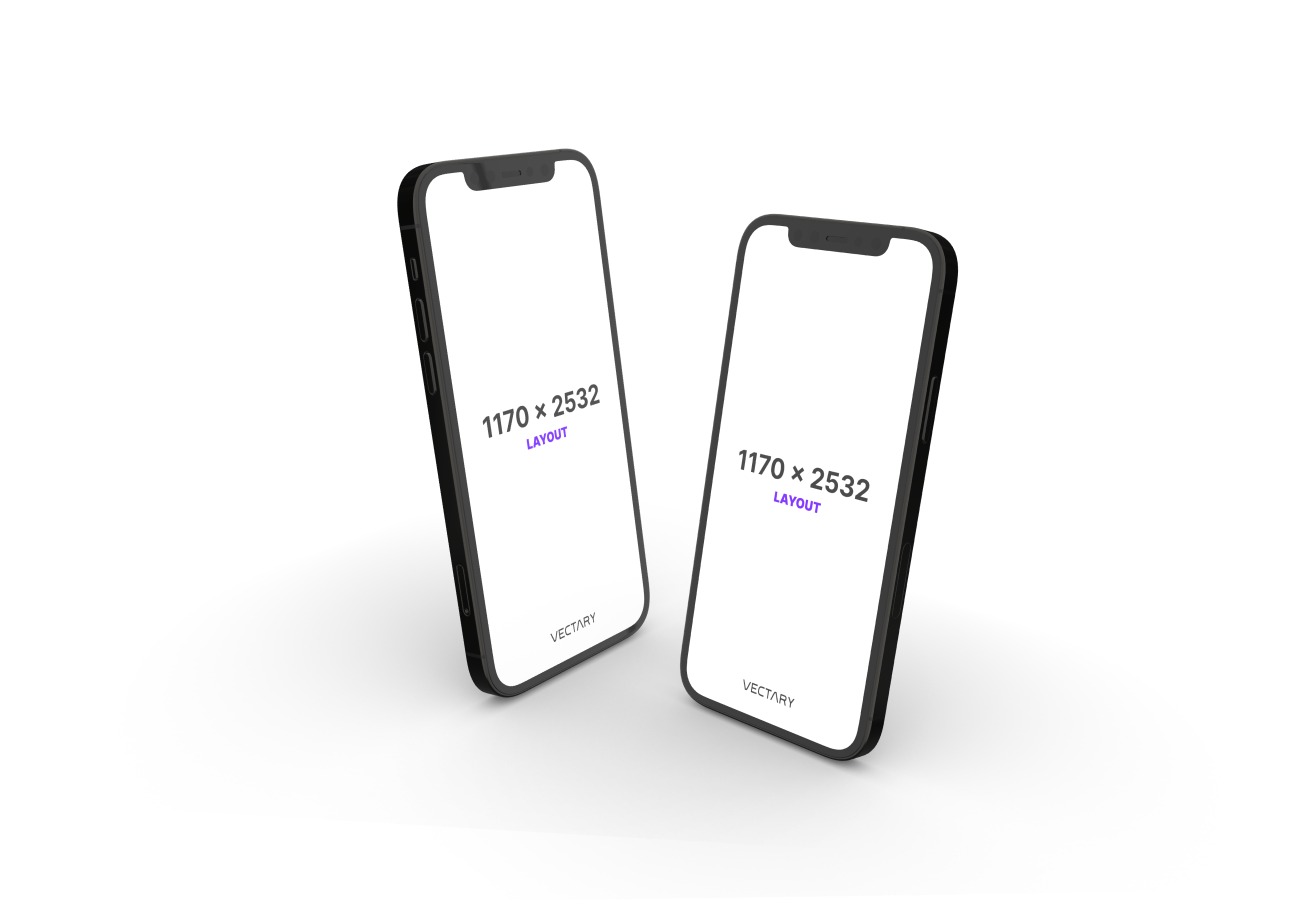
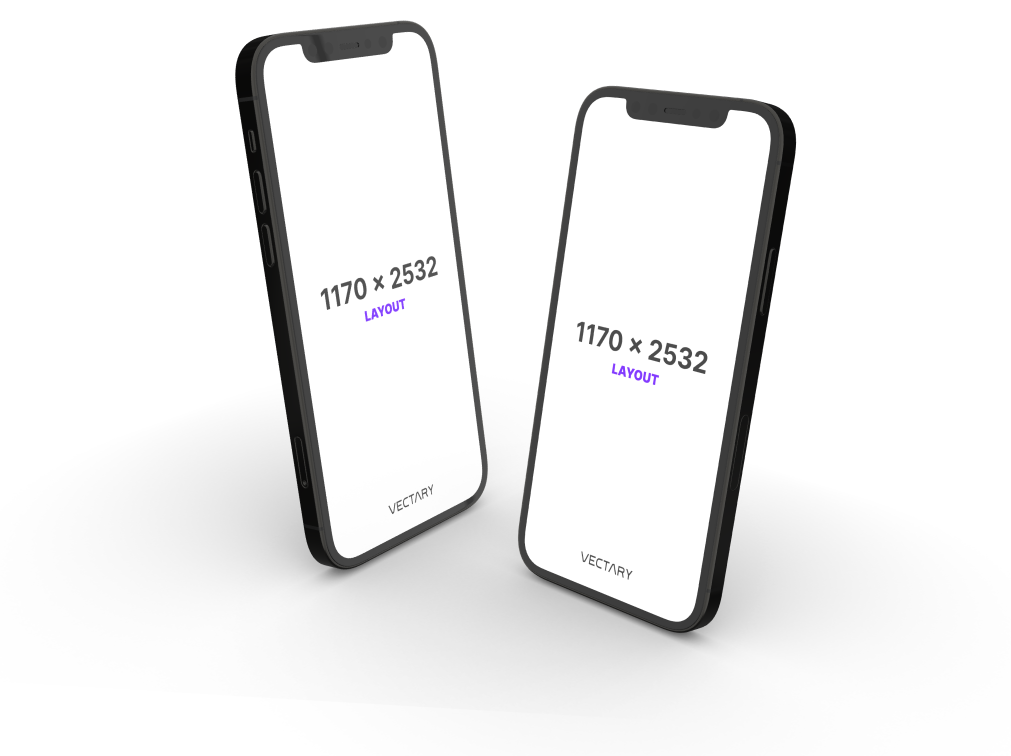
fix styling issues for mobiles image

Changed region(s): [[0.2146, 0.0304, 0.7972, 0.8519]]

diff --git a/src/components/section8/Section8.js b/src/components/section8/Section8.js
@@ -20,7 +20,12 @@ const Section8 = () => {
         </div>
       </div>
       <div className="Div2">
-        <img src={mobile} alt="mobiles" />
+        <img
+          className="Mobiles"
+          src={mobile}
+          alt="mobiles"
+          style={{ marginTop: '150px' }}
+        />
       </div>
     </div>
   );

diff --git a/src/components/section8/Section8.css b/src/components/section8/Section8.css
@@ -28,6 +28,8 @@
     font-size: 1.75em;
     text-align: start;
   }
-  .Div2 {
+
+  .Mobiles {
+    width: 500px;
   }
 }
